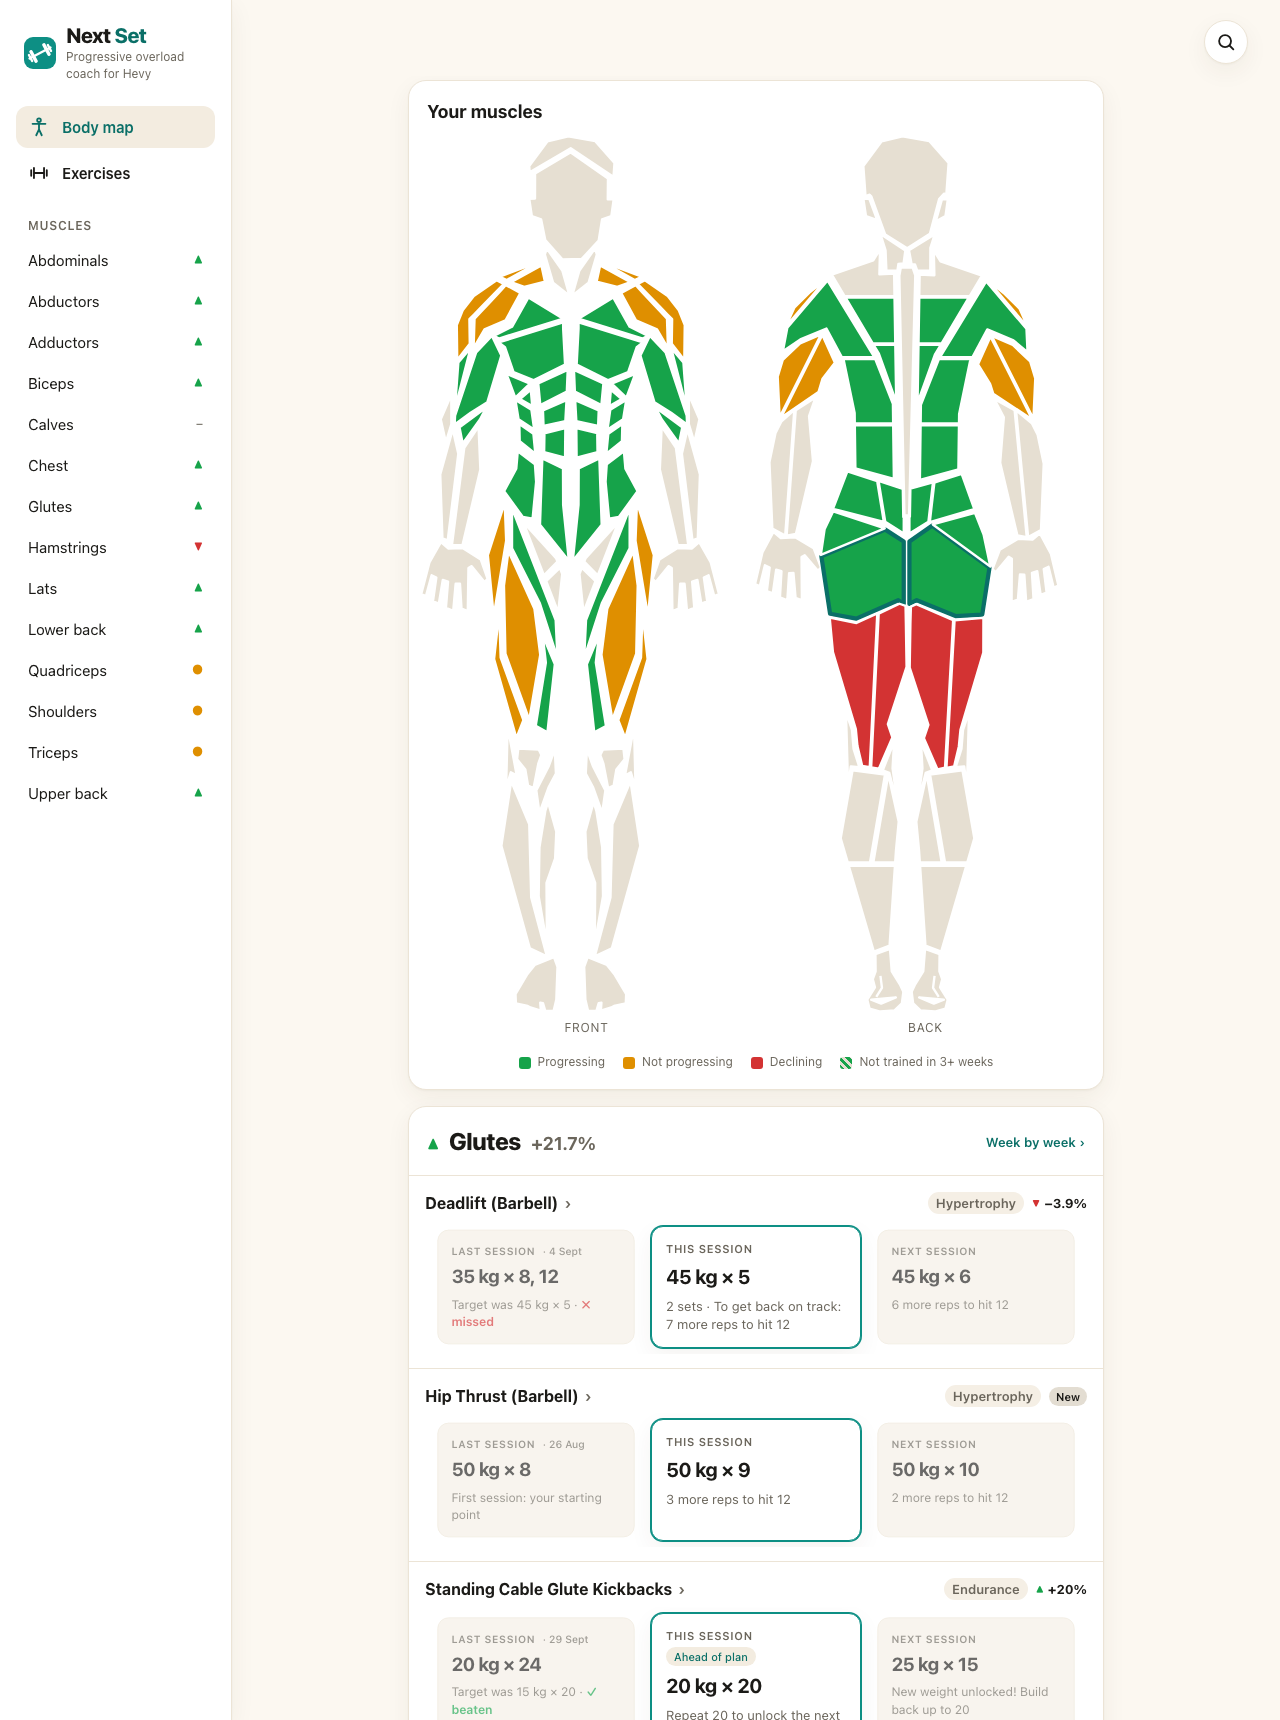
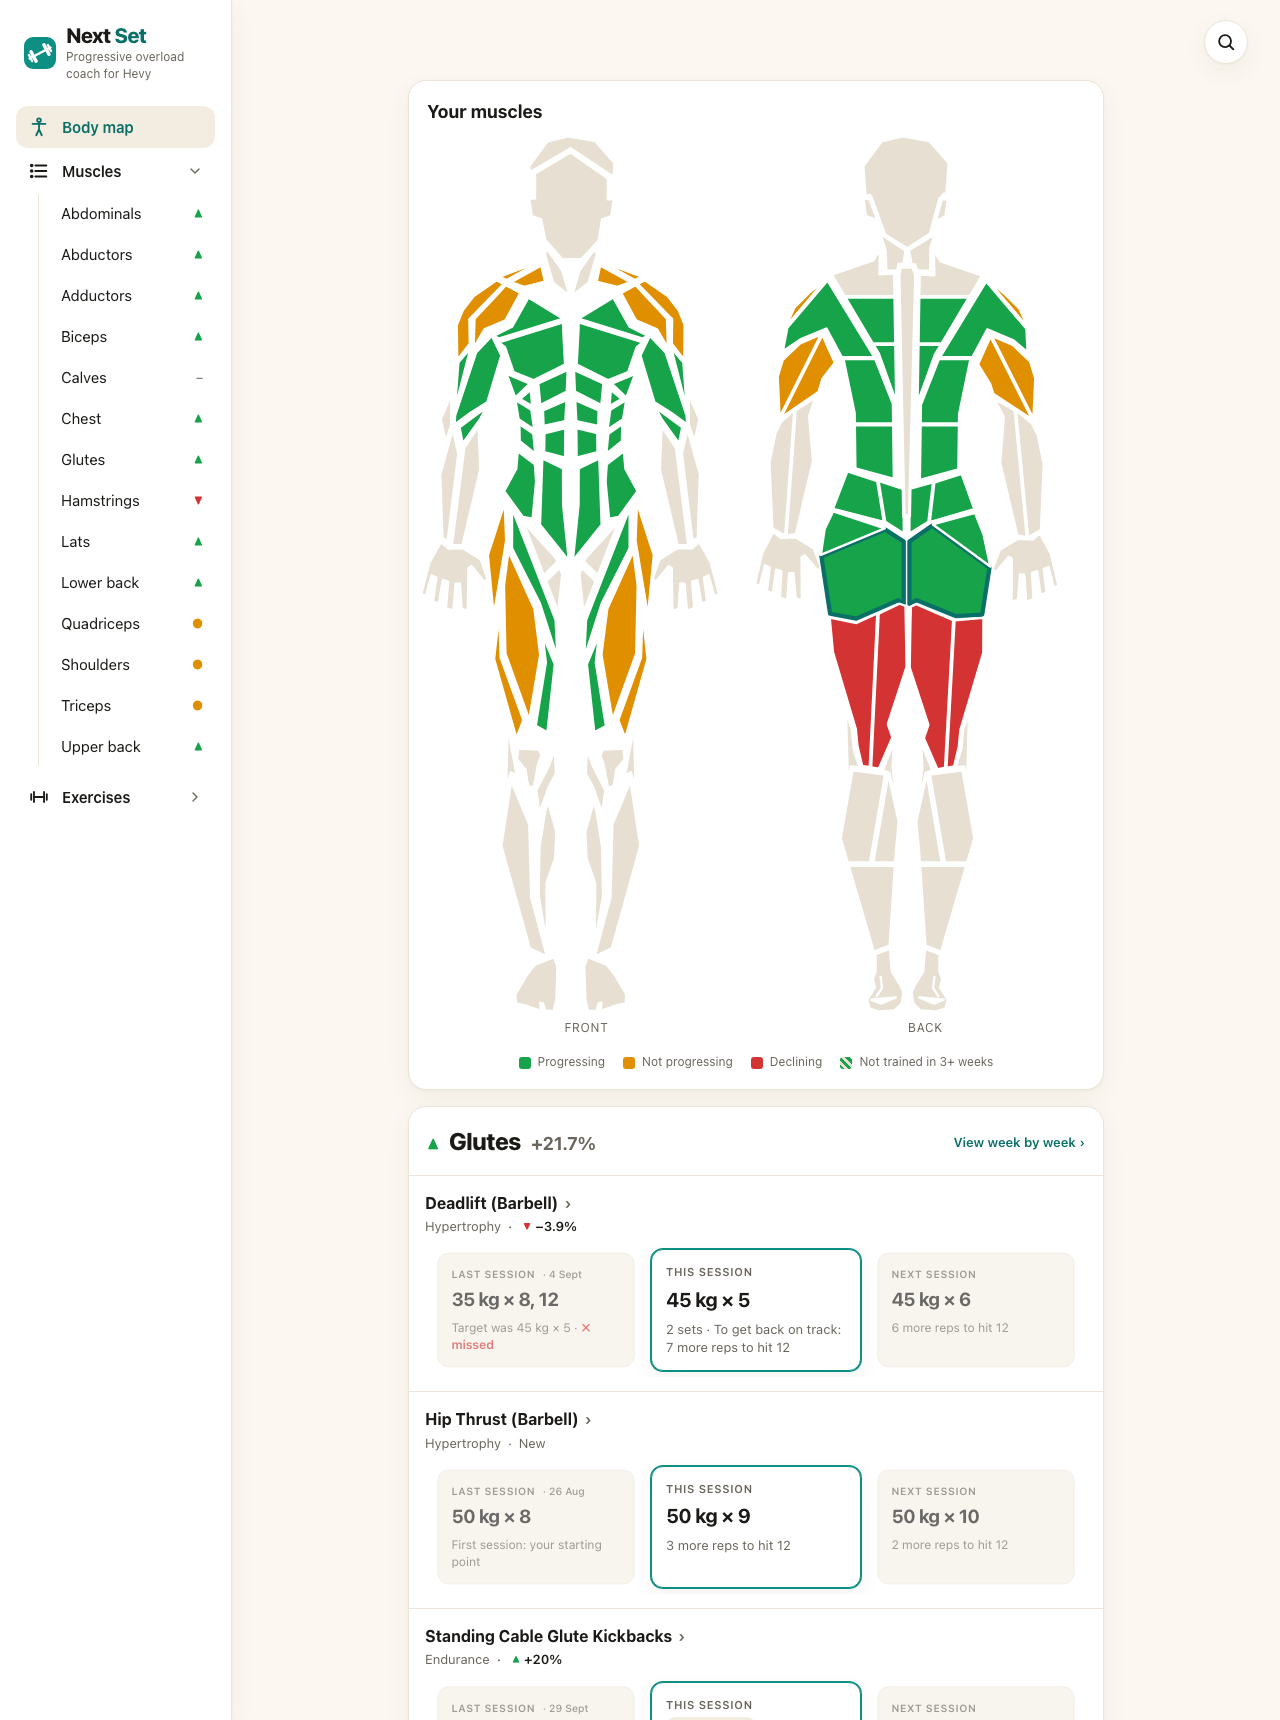
Fix the muscle chart's clipped callout; refresh README screenshots
The sideways scroller added for the exercise chart applied to every
chart, and a scroller clips anything above the plot, so the muscle
page lost its "+18.3%" callout. Only charts given a minimum column
width scroll now.

Body map and muscle screenshots retaken: they still showed the old
sidebar and exercise rows.

diff --git a/frontend/src/charts/ColumnLineChart.test.tsx b/frontend/src/charts/ColumnLineChart.test.tsx
@@ -73,3 +73,22 @@ describe('ColumnLineChart line entry', () => {
     expect(y).toBeLessThan(50)
   })
 })
+
+describe('ColumnLineChart scrolling', () => {
+  const chart = (minColumnWidth?: number) =>
+    render(
+      <ColumnLineChart
+        label="test"
+        columns={[0, 1].map((i) => ({ key: String(i) }))}
+        lines={[{ values: [1, 2], variant: 'trend' }]}
+        dots={[]}
+        minColumnWidth={minColumnWidth}
+      />,
+    ).container.querySelector('[class*="chart"]')!
+
+  // A scroller would clip a callout above the plot (the muscle page's "+18.3%").
+  it('only scrolls when given a minimum column width', () => {
+    expect(chart()).not.toHaveAttribute('data-scroll')
+    expect(chart(48)).toHaveAttribute('data-scroll')
+  })
+})

diff --git a/frontend/src/charts/ColumnLineChart.tsx b/frontend/src/charts/ColumnLineChart.tsx
@@ -96,7 +96,11 @@ export function ColumnLineChart({
 
   return (
     <figure className={styles.figure} aria-label={label}>
-      <div className={styles.chart} data-dot-labels={hasDotLabels || undefined}>
+      <div
+        className={styles.chart}
+        data-scroll={minColumnWidth ? true : undefined}
+        data-dot-labels={hasDotLabels || undefined}
+      >
         {yAxis?.title && (
           <span className={styles.yTitle} style={{ height }} title={yAxis.hint} aria-hidden="true">
             {yAxis.title}

diff --git a/frontend/src/charts/ColumnLineChart.module.css b/frontend/src/charts/ColumnLineChart.module.css
@@ -43,6 +43,11 @@
 .body {
   flex: 1;
   min-width: 0;
+}
+
+/* Only charts that may scroll get a scroller: it clips anything poking out above the
+   plot (such as a callout), so the others keep their overflow visible. */
+.chart[data-scroll] .body {
   overflow-x: auto;
   overscroll-behavior-x: contain;
   scrollbar-width: thin;
